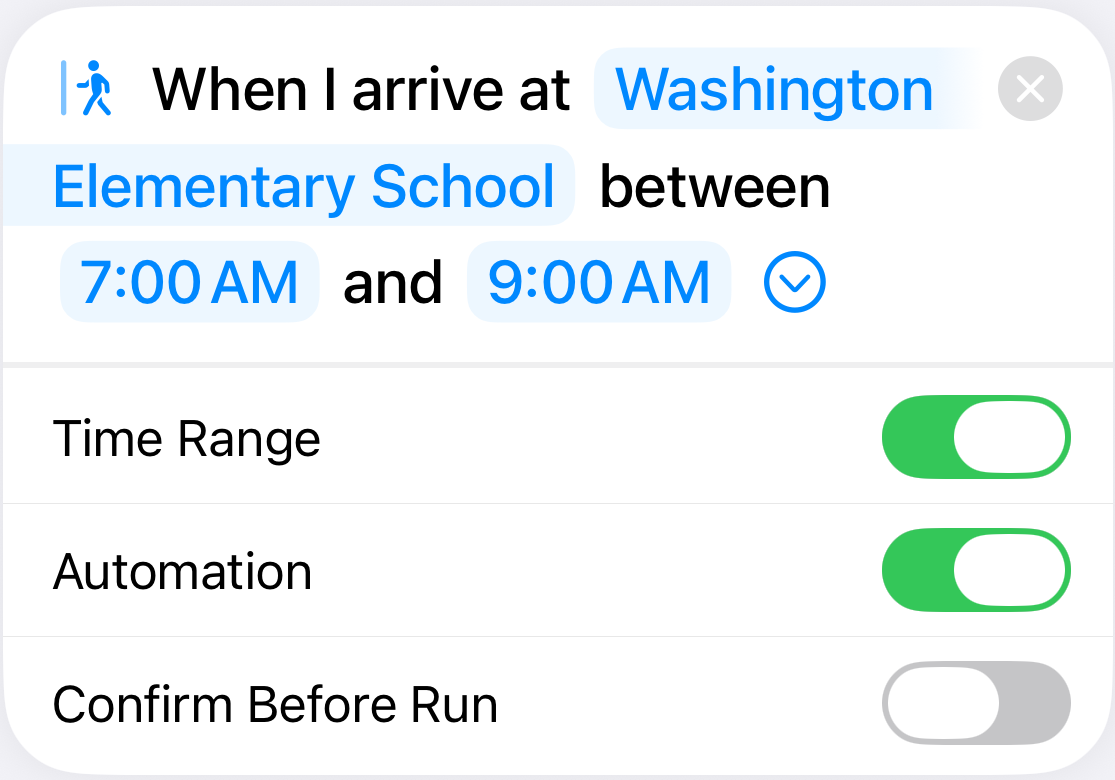
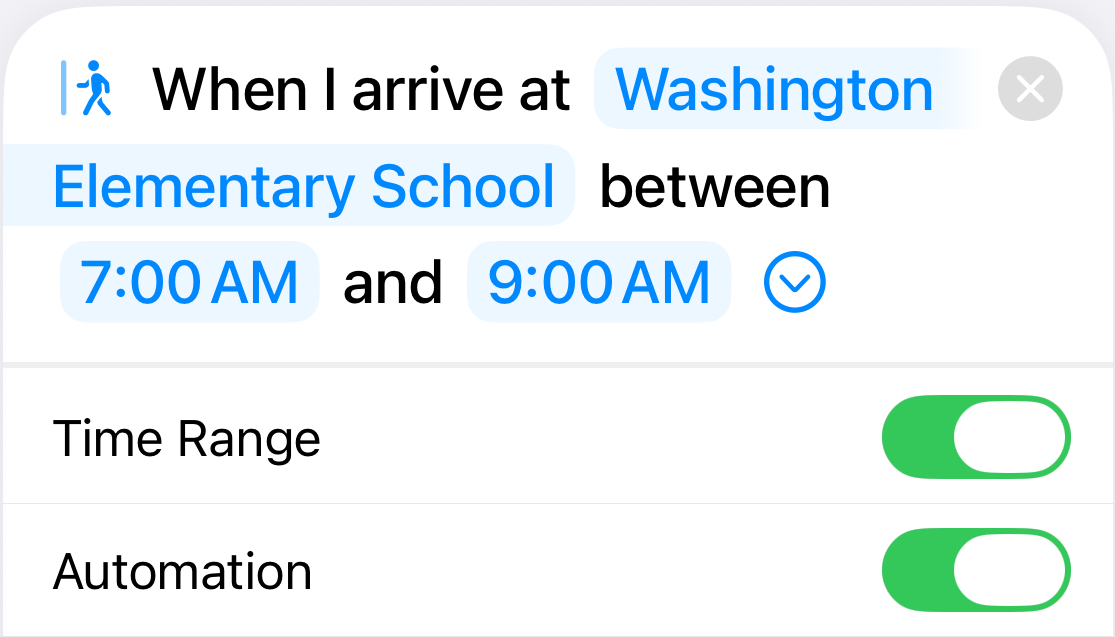
💄 style: give the setup diagram back its height
The sheet renders the whole page scaled to fit, so every row of the PNG costs the rest of it width. This takes back 321px of 1838 — the aspect ratio goes from 0.51 to 0.62 — without dropping anything you compare your screen against.

Both captions are gone: "How to set it up" and "When it is set up, it looks like this" each said what the order already said. Both captures are cropped tighter, and re-cropped in place, since `make_diagrams.py` pastes them whole. The picker now starts at the top of the search field, dropping the sheet's gray surround and its drag handle. The result stops at the row boundary under Automation, cutting off Confirm Before Run — which no step mentions anyway, because it already defaults to off. The Location Services note is one line at 24pt rather than two at 26pt, which keeps the sentence intact.

`ROW` moves with the picker's new origin; it is still the same measured rectangle.

diff --git a/make_diagrams.py b/make_diagrams.py
@@ -18,11 +18,18 @@ four times the bytes for the same picture, and these live in git.
 To recapture, take a full screenshot on an iPhone 17 Pro simulator and cut out
 the same region before saving it here:
 
-    picker  crop (40, 150, 1166, 950)  -> 1126x800
-    result  crop (45, 390, 1160, 1170) -> 1115x780
+    picker  crop (40, 224, 1166, 950)  -> 1126x726
+    result  crop (45, 390, 1160, 1027) -> 1115x637
 
 then re-run this. ROW below is in the picker's cropped coordinates, so it
 shifts with that box.
+
+Both boxes are tight on purpose. The picker starts at the top of the search
+field, because the sheet's gray surround and its drag handle are not part of
+what you are matching, and the result stops at a row boundary just under
+Automation, cutting off Confirm Before Run. The page is rendered scaled to fit
+inside an alert, so anything that is not being compared against is costing the
+rest of it width.
 
     python3 make_diagrams.py
 
@@ -44,8 +51,8 @@ ASSETS = HERE / "assets"
 # Measured, not eyeballed: the card is the white rounded rect, found by scanning
 # for near-white at x=1000 (clear of the icon and the text) and along y=795 of
 # the full screenshot. Outset by 4px so the stroke sits outside the card instead
-# of over its edge, then shifted by the picker crop's origin (40, 150).
-ROW = (16, 549, 1109, 739)
+# of over its edge, then shifted by the picker crop's origin (40, 224).
+ROW = (16, 475, 1109, 665)
 
 TITLE = "One-time automation setup"
 
@@ -94,10 +101,10 @@ def draw(kind, spec):
     picker, scale = panel(spec["capture"])
     result, _ = panel(spec["result"])
 
-    # No step for Confirm Before Run. It already defaults to off — checked on a
-    # simulator, untouched, straight after adding the trigger — so unattended
-    # runs need nothing done to it, and whether you want a prompt is your call
-    # rather than a setup step. The lower panel still shows the toggle.
+    # No step for Confirm Before Run, and it is cropped out of the lower panel.
+    # It already defaults to off — checked on a simulator, untouched, straight
+    # after adding the trigger — so unattended runs need nothing done to it, and
+    # whether you want a prompt is your call rather than a setup step.
     steps = ["1.  Tap Edit on this shortcut.",
              "2.  Tap the search field at the bottom.",
              f'3.  Search "{spec["action"]}" and tap it under Automation.',
@@ -105,13 +112,15 @@ def draw(kind, spec):
 
     # Lay the page out first so the canvas is exactly as tall as its contents.
     # It used to be a hard-coded 1320, which silently clipped anything added.
-    head_y = 164
-    top = head_y + 46
-    steps_y = top + picker.height + 40
-    caption_y = steps_y + len(steps) * 44 + 24
-    result_y = caption_y + 46
-    foot_y = result_y + result.height + 34
-    height = foot_y + 96
+    #
+    # Neither panel is labeled. "How to set it up" and "When it is set up, it
+    # looks like this" were two lines saying what the order already says, and
+    # the sheet renders this whole page scaled to fit — every line costs width.
+    top = 156
+    steps_y = top + picker.height + 32
+    result_y = steps_y + len(steps) * 44 + 24
+    foot_y = result_y + result.height + 28
+    height = foot_y + 56
 
     canvas = Image.new("RGB", (940, height), (255, 255, 255))
     d = ImageDraw.Draw(canvas)
@@ -120,8 +129,6 @@ def draw(kind, spec):
     d.text((40, 36), TITLE, font=font(46, True), fill=(20, 20, 20))
     d.text((40, 100), spec["subtitle"], font=font(30), fill=(110, 110, 110))
 
-    d.text((44, head_y), "How to set it up:", font=font(30, True),
-           fill=(20, 20, 20))
     canvas.paste(picker, (40, top))
     d.rounded_rectangle((40, top, 40 + WIDTH, top + picker.height), radius=14,
                         outline=(205, 205, 205), width=2)
@@ -137,16 +144,16 @@ def draw(kind, spec):
         d.text((44, y), line, font=font(30), fill=(35, 35, 35))
         y += 44
 
-    d.text((44, caption_y), "When it is set up, it looks like this:",
-           font=font(30, True), fill=(20, 20, 20))
     canvas.paste(result, (40, result_y))
     d.rounded_rectangle((40, result_y, 40 + WIDTH, result_y + result.height),
                         radius=14, outline=(205, 205, 205), width=2)
 
-    d.text((44, foot_y), "Location Services for Shortcuts must be Always,",
-           font=font(26), fill=(120, 120, 120))
-    d.text((44, foot_y + 34), "or the geofence never fires.",
-           font=font(26), fill=(120, 120, 120))
+    # One line at 26 runs 906px wide against 856 of room; 24 fits with the
+    # sentence intact, which beats rewording it to save two points.
+    d.text((44, foot_y),
+           "Location Services for Shortcuts must be Always, "
+           "or the geofence never fires.",
+           font=font(24), fill=(120, 120, 120))
 
     # 64 colors is lossless enough for flat UI art and a third of the bytes,
     # which matters because this ends up base64'd inside the shortcut.
